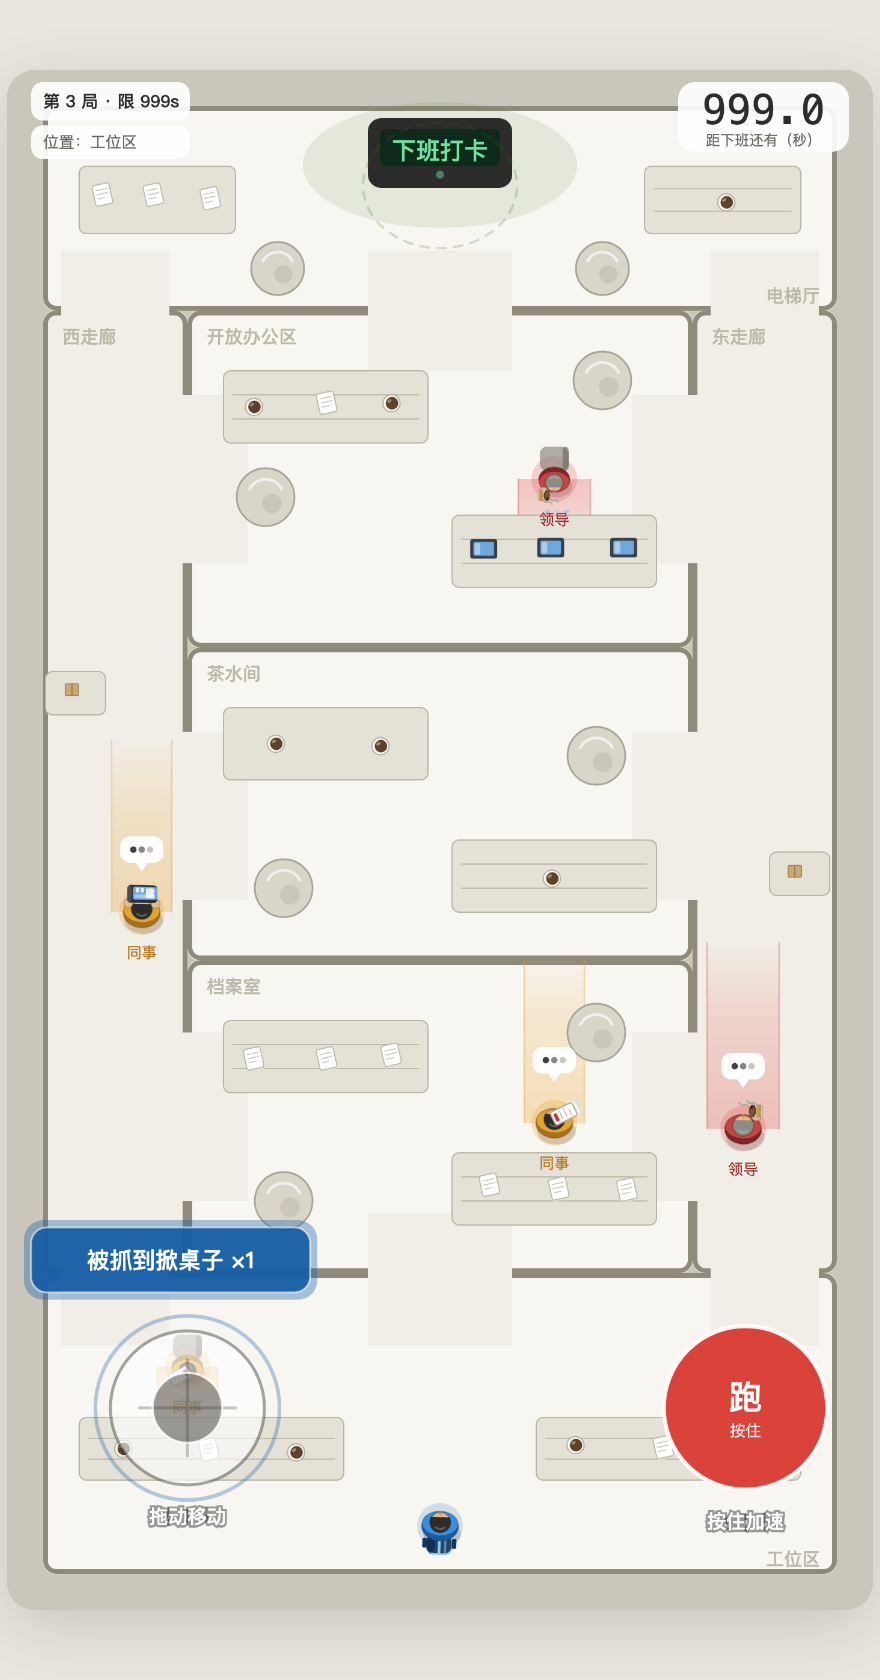
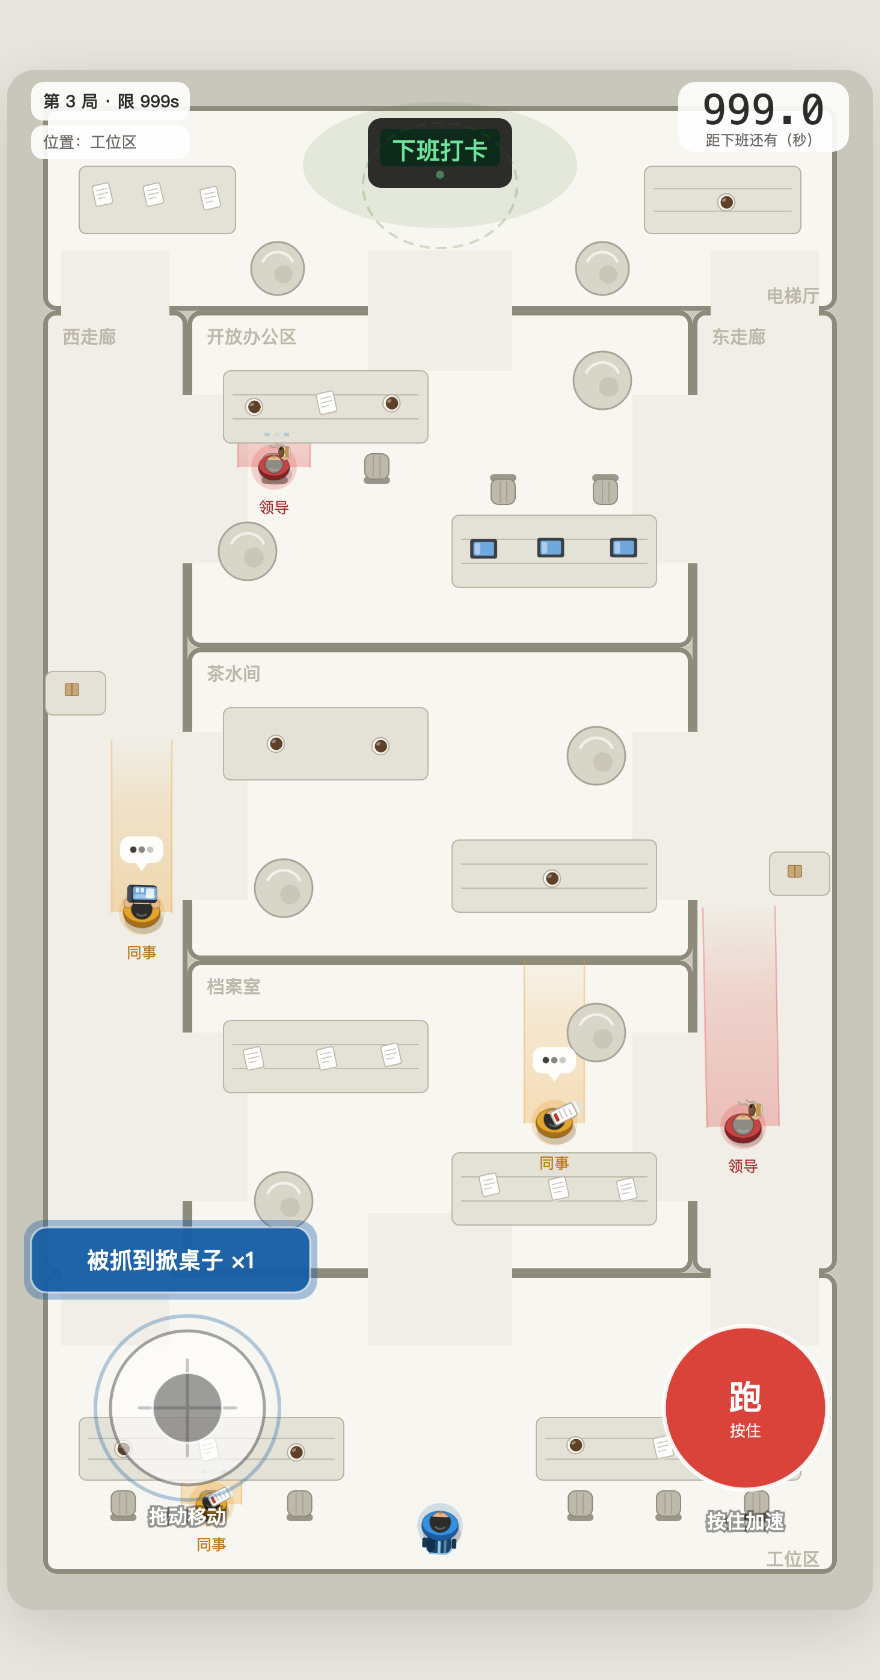
feat(art): 办公桌后面补上椅子，并把 NPC 的落座点对齐到椅子上
原来桌子就是一块圆角矩形，看着像会议桌不像工位。

新增 drawChair()：坐垫 + 靠背 + 两道压线，方向按「人坐上去朝哪边」给。
dressChairs() 按家具上挂的 chair:{side,n} 沿长边均匀摆：
- 工位区两排隔板（各 220px）→ 南侧各 3 把
- 开放办公区上排工位 → 南侧 2 把（人朝北，面对桌子）
- 开放办公区下排工位 → 北侧 2 把（人朝南，面对桌子）—— 两排相对而坐

顺手修了一个一致性问题：NPC「坐下办公」的站点原本不在椅子上，
看着是悬空坐。现在把 4 个落座点精确对齐到椅子坐标（误差 0），
并在站点上标 noChair，避免椅子画两遍。

配套：开放办公区那根承重柱从 (215,355) 挪到 (200,400)，
因为它会压住新摆的椅子。

验证：
- 4 个落座点全部精确落在某把椅子上
- 门口被堵 0、站点不可站 0、孤岛 0 格、最短路径 1464px 不变
- 运行时错误 0

注：椅子是纯装饰，不挡走位也不挡视线（挡的话会改变已经验证过的关卡几何）。

diff --git a/index.html b/index.html
@@ -236,11 +236,11 @@ const DOORS = [
 // 家具（同时挡视线、挡走位）。位置都躲开了门口，避免一进房间就被卡住
 const COVERS = [
   // 工位区：两排隔板，中间留一条正面通道
-  { x: 60, y:1120, w:220, h: 52, t:'desk',    label:'工位隔板' },
-  { x:440, y:1120, w:220, h: 52, t:'desk',    label:'工位隔板' },
+  { x: 60, y:1120, w:220, h: 52, t:'desk',    label:'工位隔板', chair:{side:'s', n:3} },
+  { x:440, y:1120, w:220, h: 52, t:'desk',    label:'工位隔板', chair:{side:'s', n:3} },
   // 开放办公区 / 茶水间 / 档案室：两件错开摆，逼出 Z 字走位
-  { x:180, y: 250, w:170, h: 60, t:'desk',    label:'工位'     },
-  { x:370, y: 370, w:170, h: 60, t:'desk',    label:'工位'     },
+  { x:180, y: 250, w:170, h: 60, t:'desk',    label:'工位',     chair:{side:'s', n:2} },
+  { x:370, y: 370, w:170, h: 60, t:'desk',    label:'工位',     chair:{side:'n', n:2} },
   { x:180, y: 530, w:170, h: 60, t:'counter', label:'咖啡机'   },
   { x:370, y: 640, w:170, h: 60, t:'sofa',    label:'沙发'     },
   { x:180, y: 790, w:170, h: 60, t:'desk',    label:'文件柜'   },
@@ -260,7 +260,7 @@ const COVERS = [
    柱子同时挡走位、挡视线。 */
 const PILLARS = [
   { x:225, y:165, r:22 }, { x:495, y:165, r:22 },   // 电梯厅：打卡机两侧
-  { x:215, y:355, r:24 }, { x:495, y:258, r:24 },   // 开放办公区
+  { x:200, y:400, r:24 }, { x:495, y:258, r:24 },   // 开放办公区
   { x:230, y:680, r:24 }, { x:490, y:570, r:24 },   // 茶水间
   { x:230, y:940, r:24 }, { x:490, y:800, r:24 }    // 档案室
 ];
@@ -326,11 +326,11 @@ const NPC_DEFS = {
   A: { key:'A', kind:'mate', name:'同事 · 老王', room:'desk', item:'paper',
        speed:72, vision:190, fov:70, alertTime:1.5,
        stations:[
-         { x:150, y:1078, act:'sit',  face:[0,1] },
-         { x:360, y:1092, act:'chat', face:[0,1] },
-         { x:560, y:1078, act:'sit',  face:[0,1] },
-         { x:170, y:1198, act:'sit',  face:[0,-1] },
-         { x:545, y:1198, act:'chat', face:[0,-1] }
+         { x:170, y:1192, act:'sit',  face:[0,-1], noChair:true },   // 坐在左排中间的椅子上
+         { x:550, y:1192, act:'sit',  face:[0,-1], noChair:true },   // 坐在右排中间的椅子上
+         { x:120, y:1085, act:'chat', face:[0,1] },                  // 过道里找人说话
+         { x:360, y:1085, act:'chat', face:[0,1] },
+         { x:545, y:1085, act:'chat', face:[0,-1] }
        ] },
   // 西走廊：走廊里没桌子，坐下就变成「蹲在快递架边整理」
   B: { key:'B', kind:'mate', name:'同事 · 小李', room:'west', item:'laptop',
@@ -353,9 +353,9 @@ const NPC_DEFS = {
   D: { key:'D', kind:'boss', name:'领导 · 陈总', room:'open', item:'coffee',
        speed:68, vision:200, fov:80, alertTime:0.9,
        stations:[
+         { x:222, y:330, act:'sit',  face:[0,-1], noChair:true },   // 上排工位
+         { x:497, y:350, act:'sit',  face:[0,1],  noChair:true },   // 下排工位
          { x:265, y:225, act:'chat', face:[1,0] },
-         { x:265, y:340, act:'sit',  face:[0,1] },
-         { x:455, y:340, act:'sit',  face:[0,1] },
          { x:455, y:228, act:'chat', face:[-1,0] }
        ] },
   // 档案室：想抄后门绕远路，就得先过他
@@ -1159,6 +1159,41 @@ function dressSurface(c){
   }
 }
 
+// 一把办公椅（俯视）：坐垫 + 一片靠背。face 是「人坐上去之后朝向哪边」
+const CHAIR_DIR = { e:0, s:Math.PI/2, w:Math.PI, n:-Math.PI/2 };
+function drawChair(cx, cy, face){
+  ctx.save();
+  ctx.translate(cx, cy);
+  ctx.rotate(CHAIR_DIR[face] || 0);
+  ctx.fillStyle = '#9A968A';                 // 靠背（在人背后）
+  roundRect(-14, -11, 6, 22, 3); ctx.fill();
+  ctx.fillStyle = '#BDB9AC';                 // 坐垫
+  roundRect(-10, -10, 21, 20, 6); ctx.fill();
+  ctx.strokeStyle = '#8F8B7C'; ctx.lineWidth = 1; ctx.stroke();
+  // 坐垫上的两道压线，别让它看着像一块砖
+  ctx.strokeStyle = 'rgba(143,139,124,.55)'; ctx.lineWidth = 0.9;
+  ctx.beginPath();
+  ctx.moveTo(-8, 2.5); ctx.lineTo(9, 2.5);
+  ctx.moveTo(-8, -3);  ctx.lineTo(9, -3);
+  ctx.stroke();
+  ctx.restore();
+}
+
+// 按家具上挂的 chair 配置摆椅子。椅子只是装饰，不挡走位也不挡视线
+function dressChairs(c){
+  if(!c.chair) return;
+  const n = c.chair.n || 2;
+  for(let i=0;i<n;i++){
+    const t = (i + 0.5) / n;
+    let cx, cy, face;
+    if(c.chair.side === 's'){ cx = c.x + c.w*t; cy = c.y + c.h + 20; face = 'n'; }
+    else if(c.chair.side === 'n'){ cx = c.x + c.w*t; cy = c.y - 20; face = 's'; }
+    else if(c.chair.side === 'w'){ cx = c.x - 20; cy = c.y + c.h*t; face = 'e'; }
+    else { cx = c.x + c.w + 20; cy = c.y + c.h*t; face = 'w'; }
+    drawChair(cx, cy, face);
+  }
+}
+
 function drawConfront(){
   const n = confront.npc;
   if(!n) return;
@@ -1386,6 +1421,8 @@ function draw(){
       ctx.fillStyle = 'rgba(59,109,17,.20)';
       ctx.beginPath(); ctx.arc(c.x+c.w/2, c.y+c.h/2, 13, 0, Math.PI*2); ctx.fill();
     }
+    // 桌子后面先摆椅子
+    dressChairs(c);
     // 桌面上的东西（咖啡杯 / 文件 / 笔记本）
     dressSurface(c);
   }
@@ -1463,7 +1500,8 @@ function draw(){
     const chatting = !down && n.state === 'act' && n.act === 'chat';
 
     // 坐着办公：先在小人身后画一把椅子
-    if(sitting){
+    const hasOwnChair = !(n.stations[n.idx] && n.stations[n.idx].noChair);
+    if(sitting && hasOwnChair){
       ctx.save();
       ctx.translate(n.x - n.dir.x*17, n.y - n.dir.y*17);
       ctx.rotate(Math.atan2(n.dir.y, n.dir.x));
